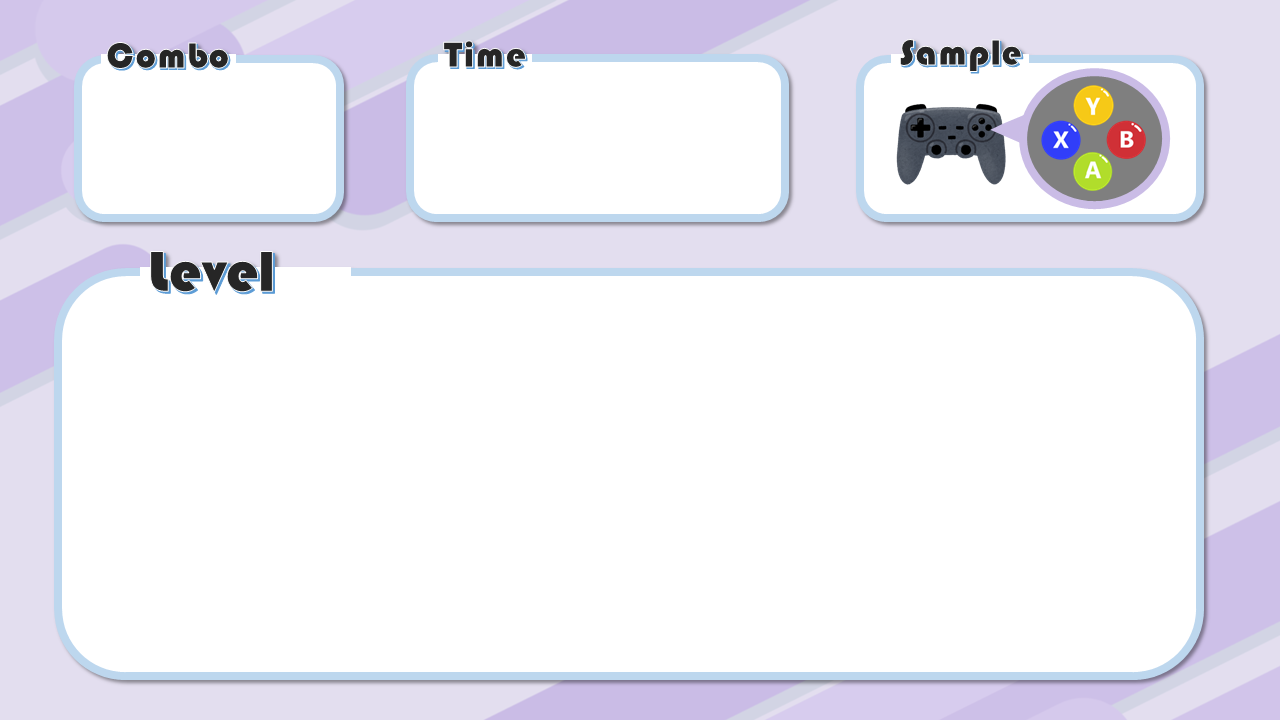
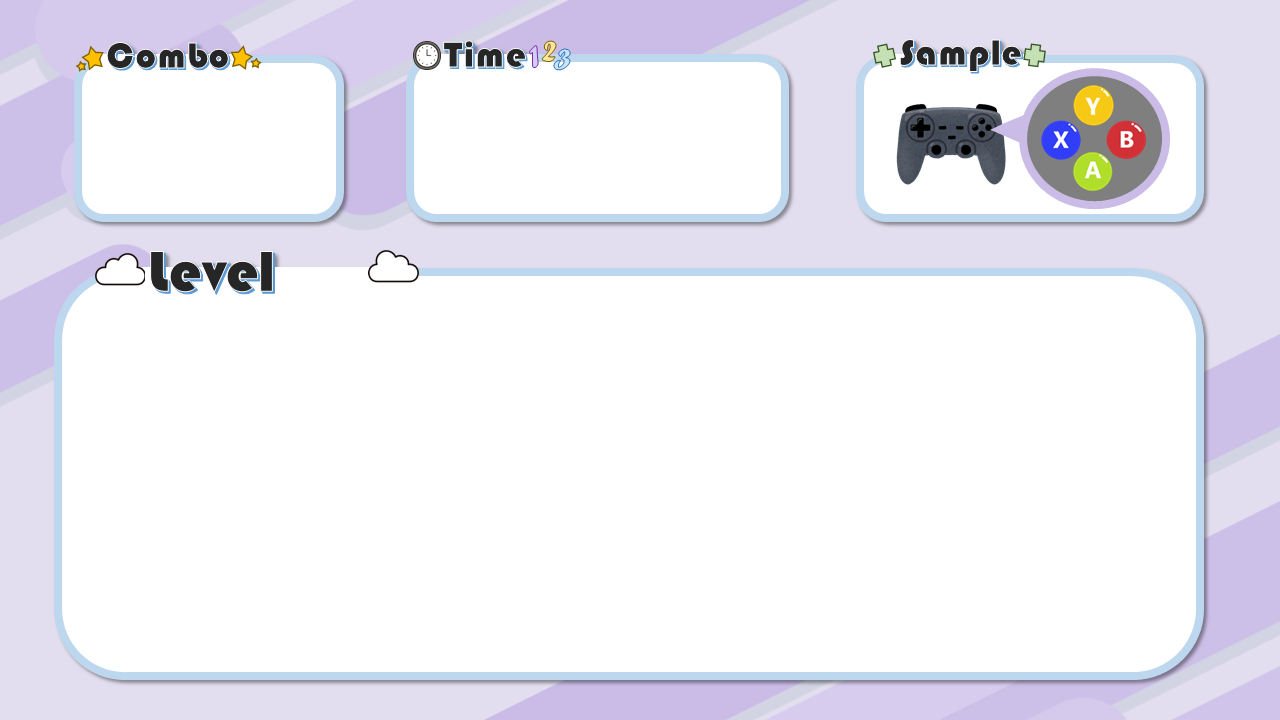
数字を画像に差し替え

diff --git a/tgs_alone/Object/Theme.cpp b/tgs_alone/Object/Theme.cpp
@@ -3,6 +3,10 @@
 
 Theme::Theme() : img{0},theme{-1},theme_flg(false),theme_num(0),sound(0)
 {
+	for (int i = 0; i < 10; i++)
+	{
+		level_img[i] = 0;
+	}
 }
 
 Theme::~Theme()
@@ -24,6 +28,8 @@ void Theme::Initialize()
 	img[1] = LoadGraph("Resource/images/Bbotton.png");
 	img[2] = LoadGraph("Resource/images/Ybotton.png");
 	img[3] = LoadGraph("Resource/images/Xbotton.png");
+
+	LoadDivGraph("Resource/images/level.png", 10, 5, 2, 50, 50, level_img);
 
 	// サウンド読み込み
 	sound = LoadSoundMem("Resource/sounds/theme.mp3");
@@ -52,7 +58,7 @@ void Theme::Initialize()
 
 	theme_flg = true;
 
-	theme_num = 3;
+	theme_num = 20;
 }
 
 void Theme::Update()
@@ -75,13 +81,17 @@ void Theme::Draw()
 {
 	if (theme_num < 10)
 	{
-		SetFontSize(50);
-		DrawFormatString(295, 250, 0x000000, "%d", theme_num - 2);
+		/*SetFontSize(50);
+		DrawFormatString(295, 250, 0x000000, "%d", theme_num - 2);*/
+		//DrawGraph(280, 245, level_img[0], TRUE);
+		DrawGraph(300, 245, level_img[(theme_num - 2) % 10], TRUE);
 	}
 	else
 	{
-		SetFontSize(50);
-		DrawFormatString(285, 250, 0x000000, "%d", theme_num - 2);
+		/*SetFontSize(50);
+		DrawFormatString(285, 250, 0x000000, "%d", theme_num - 2);*/
+		DrawGraph(277, 245, level_img[(theme_num - 2) / 10], TRUE);
+		DrawGraph(314, 245, level_img[(theme_num - 2) % 10], TRUE);
 	}
 	
 

diff --git a/tgs_alone/Scene/GameMainScene.cpp b/tgs_alone/Scene/GameMainScene.cpp
@@ -46,7 +46,8 @@ void GameMainScene::Initialize()
 	img[5] = LoadGraph("Resource/images/timeup.png");
 	img[6] = LoadGraph("Resource/images/perfect.png");
 
-	LoadDivGraph("Resource/images/number.png", 10, 5, 2, 90, 90, combo_img);
+	//LoadDivGraph("Resource/images/number.png", 10, 5, 2, 90, 90, combo_img);
+	LoadDivGraph("Resource/images/922.png", 10, 5, 2, 75, 75, combo_img);
 
 
 	// サウンド読み込み
@@ -126,7 +127,7 @@ void GameMainScene::Initialize()
 	// BGMの音量設定
 	ChangeVolumeSoundMem(100, sound[0]);
 
-	combo = 25;
+	combo = 0;
 }
 
 eSceneType GameMainScene::Update()
@@ -256,13 +257,13 @@ void GameMainScene::Draw() const
 
 		if (combo < 10)
 		{
-			DrawGraph(130, 98, combo_img[0], TRUE);
-			DrawGraph(205, 98, combo_img[combo % 10], TRUE);
+			DrawGraph(145, 105, combo_img[0], TRUE);
+			DrawGraph(204, 105, combo_img[combo % 10], TRUE);
 		}
 		else
 		{
-			DrawGraph(130, 98, combo_img[combo / 10], TRUE);
-			DrawGraph(203, 98, combo_img[combo % 10], TRUE);
+			DrawGraph(145, 105, combo_img[combo / 10], TRUE);
+			DrawGraph(204, 105, combo_img[combo % 10], TRUE);
 		}
 
 

diff --git a/tgs_alone/Object/Time.h b/tgs_alone/Object/Time.h
@@ -1,7 +1,7 @@
 #pragma once
 
 #define TIME_Y 105   // 時間(秒)の描画位置Y座標
-#define TIME_X 530   // 時間(秒)の描画位置X座標
+#define TIME_X 475   // 時間(秒)の描画位置X座標
 
 class Time
 {
@@ -24,6 +24,6 @@ public:
 	void Finalize();    // 終了時処理
 
 	void SetTimeFlg(bool flg) { time_flg = flg; } // 制限時間を止めたり再開したりするフラグの設定
-	float GetTime() { return time; } // 制限時間を返す
-	void SetTime() { time -= 1.0f; } // 制限時間から一秒マイナス
+	int GetTime() { return time; } // 制限時間を返す
+	void SetTime() { time--; } // 制限時間から一秒マイナス
 };

diff --git a/tgs_alone/Object/Theme.h b/tgs_alone/Object/Theme.h
@@ -7,6 +7,7 @@ class Theme
 private:
 	int sound;       // 音データ
 	int img[4]; // お題画像
+	int level_img[10];
 	bool theme_flg;   // お題の生成フラグ
 	int theme_num;    // お題の数
 
